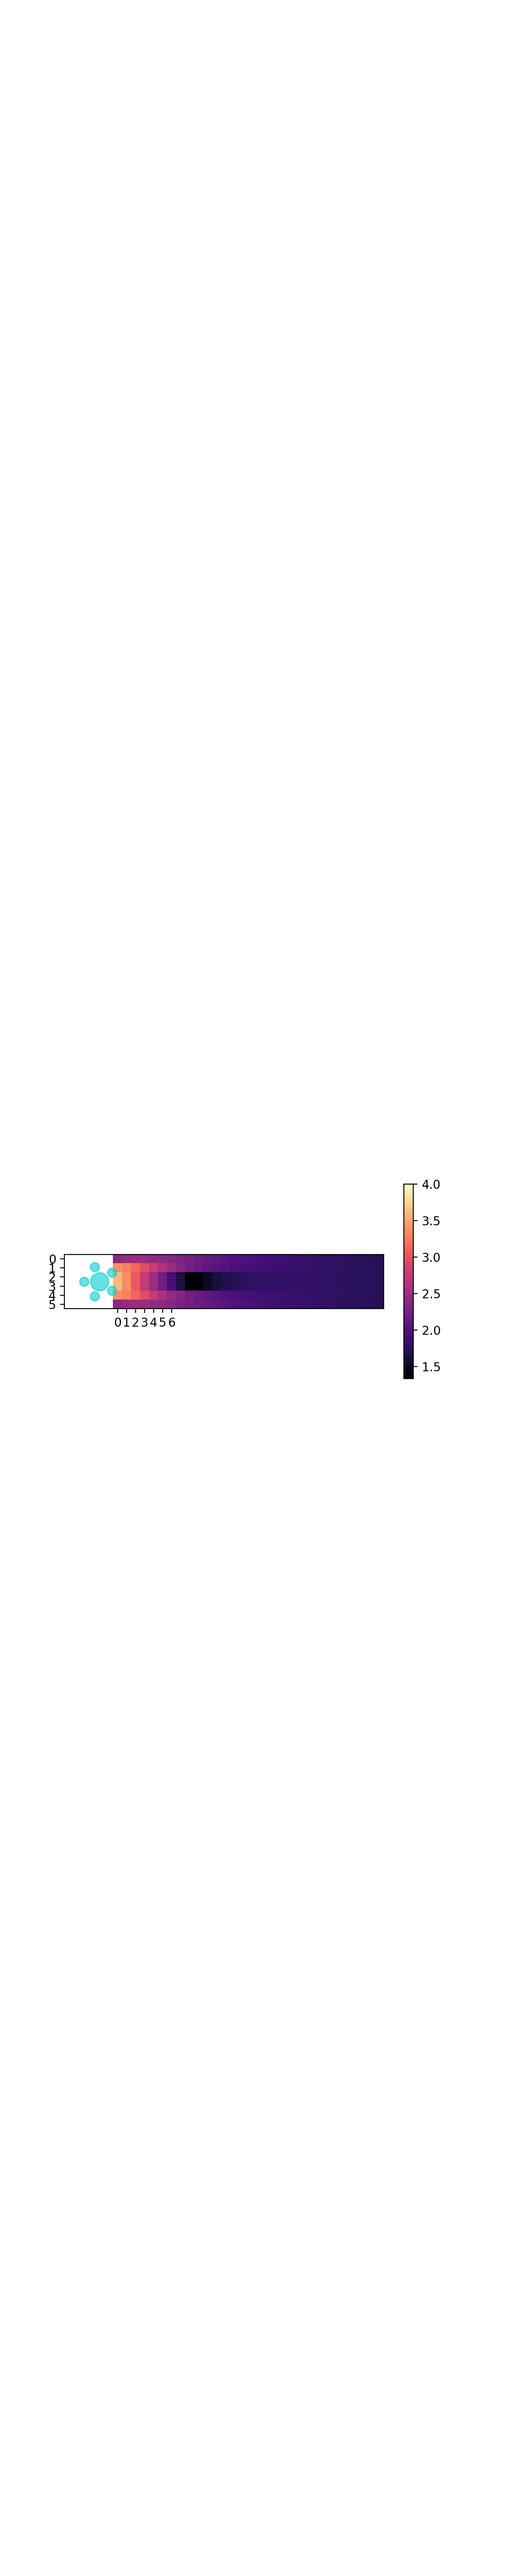
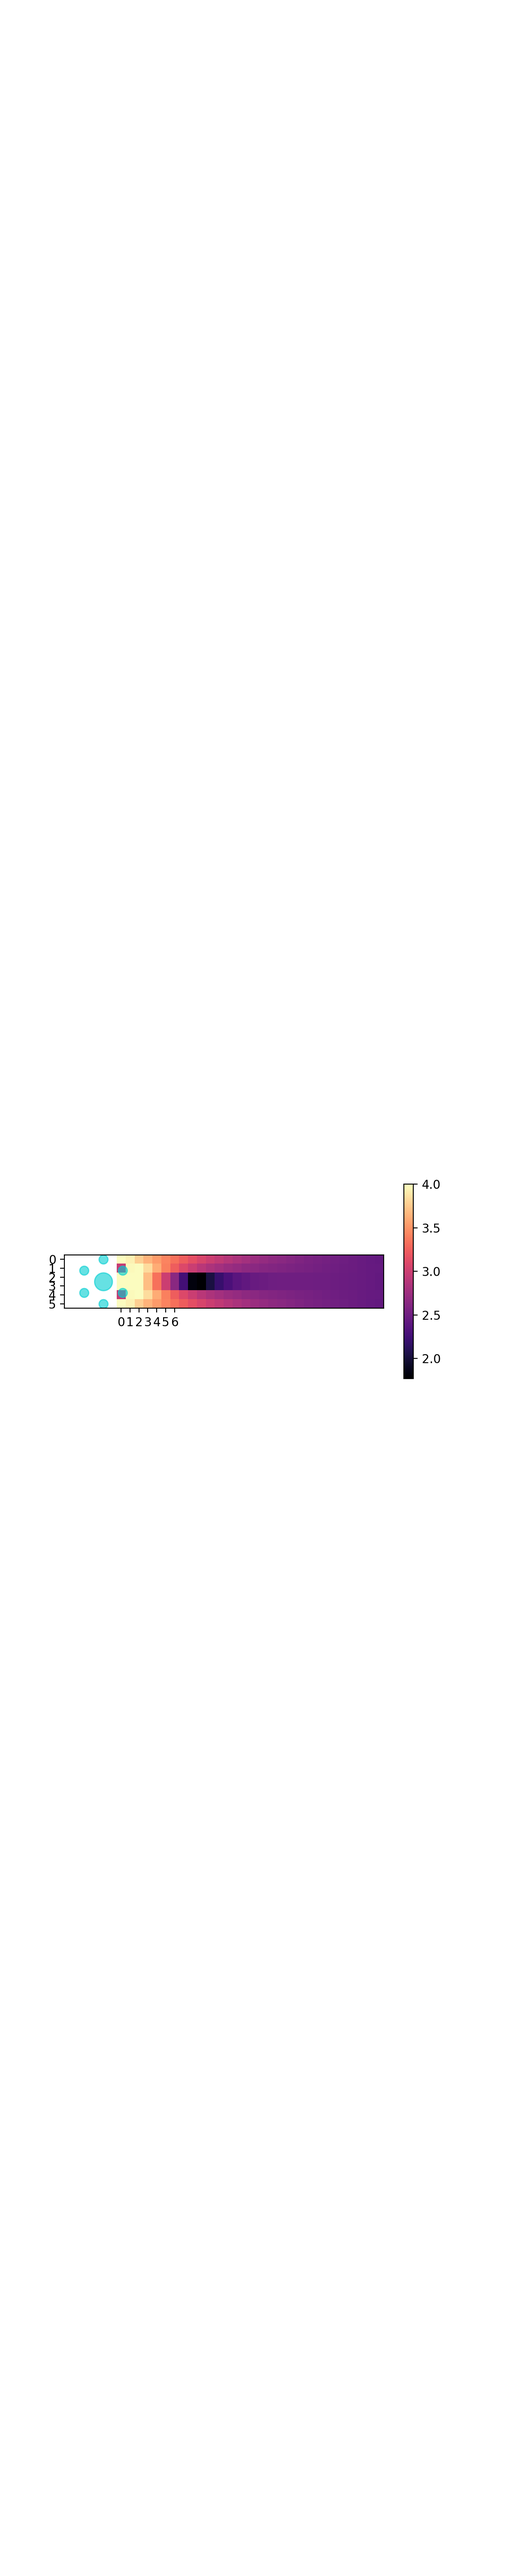
poprawa

Changed region(s): [[0.1542, 0.4675, 0.74, 0.5298], [0.8325, 0.4987, 0.8633, 0.5298]]

diff --git a/README.md b/README.md
@@ -1,16 +1,16 @@
 # hydrogen_bondings
 Calculation of forces between magnets and test dipoles of zero volume for cylindrical neodymium magnets used in presentational model of hydrogen bondings in macro scale.
 
-[Literatura](http://dsp.vscht.cz/konference_matlab/matlab07/prispevky/kosek_mikolanda/kosek_mikolanda.pdf) w sprawie modelowania oddziaływań magnetostatycznych zachęca do dwóch modeli: dipolowego i prądowego. W tym programie zastosowałem model dipolowy dla przykładowych magnetyzacji których skalowanie na szczęście nic nie znaczy bez określenia pozostałych cech topologii pola sił. Stąd istotne, niezależne parametry dla modelowania magnesów to:
+[Literatura](http://dsp.vscht.cz/konference_matlab/matlab07/prispevky/kosek_mikolanda/kosek_mikolanda.pdf) w sprawie modelowania oddziaływań magnetostatycznych zachęca do dwóch modeli: dipolowego i prądowego. W tym programie zastosowałem model dipolowy dla przykładowych magnetyzacji. Stąd istotne, niezależne parametry dla modelowania magnesów to:
 - ich ilość,
-- stosunek wielkości środkowego do zewnętrznych,
+- wielkości magnesów (skalowanie jednostek nie zostało wykonane),
 - odległości jednych i drugich.
-- wysokość
+- wysokość magnesów
 
 ## DZIAŁANIE
 integral.cc można skompilować komendą _makefile_ bądź _g++ integral.cc -o integral_ (jednak nie jest to konieczne, program jest już skompilowany), przyspieszyć działanie programu można przez zmniejszenie dokładności całkowania (wartości __INT_RES__).
 
 Plik __main.ipynb__  powinien być uruchomiony w programie __jupyter__.
 
-Inicjalizując z odpowiednimi parametrami bądź wpisując własne funkcje inicjalizacyjne (jak na przykładnie wewnątrz proramu) można budować inne układy magnesów i macierze. Położenia magnesów wewnątrz można kontrolować parametrami inicjalizacji oraz nx i ny (rozmiarami macierzy).
+Inicjalizując z odpowiednimi parametrami bądź wpisując własne funkcje inicjalizacyjne (jak na przykładnie wewnątrz proramu) można budować inne układy magnesów i macierze (obrazy pola sił). Położenia magnesów wewnątrz można kontrolować parametrami inicjalizacji oraz nx i ny (rozmiarami macierzy).
 
